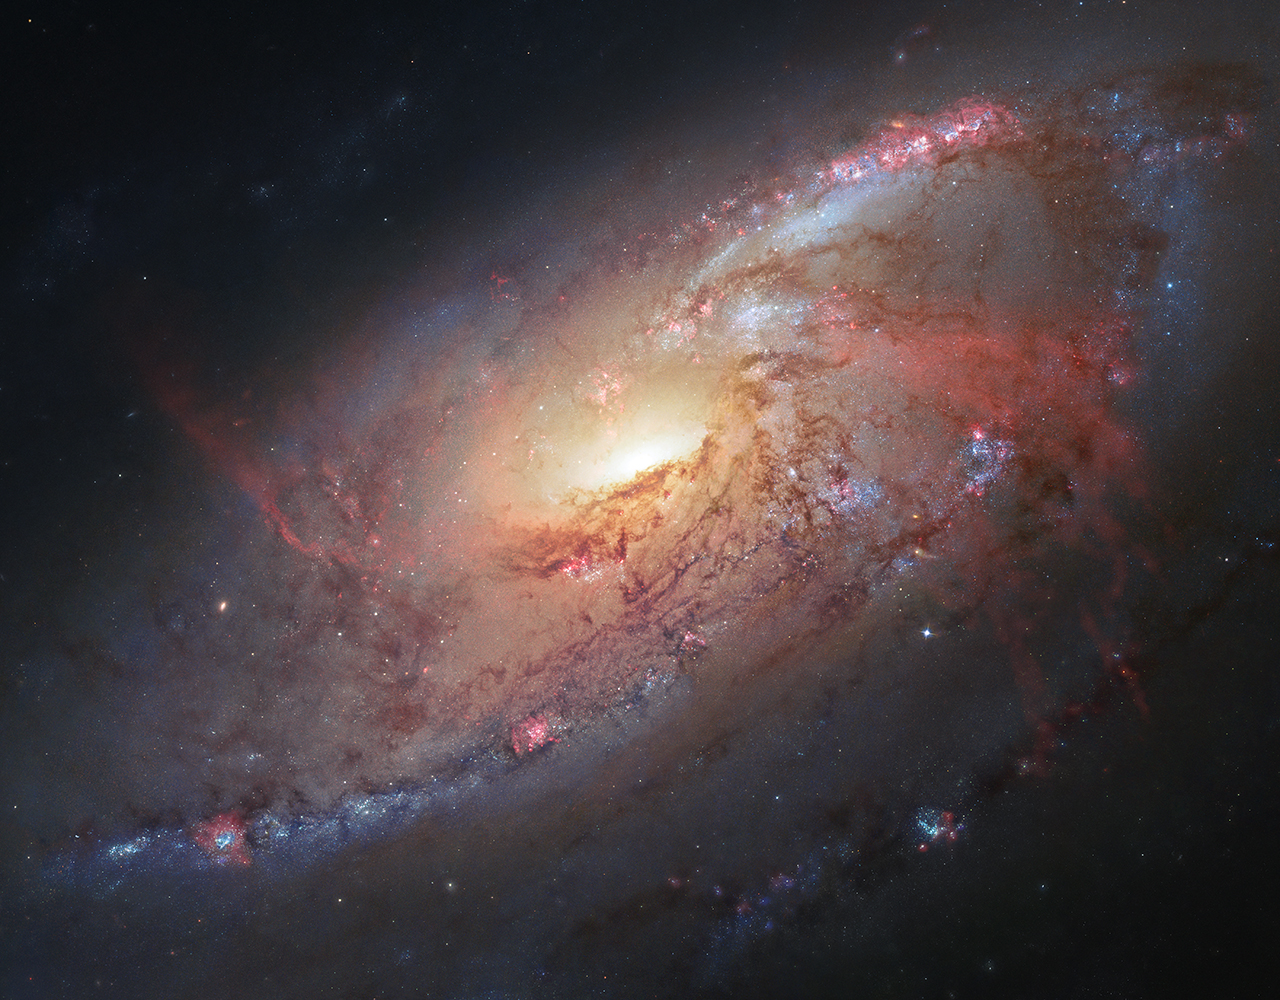
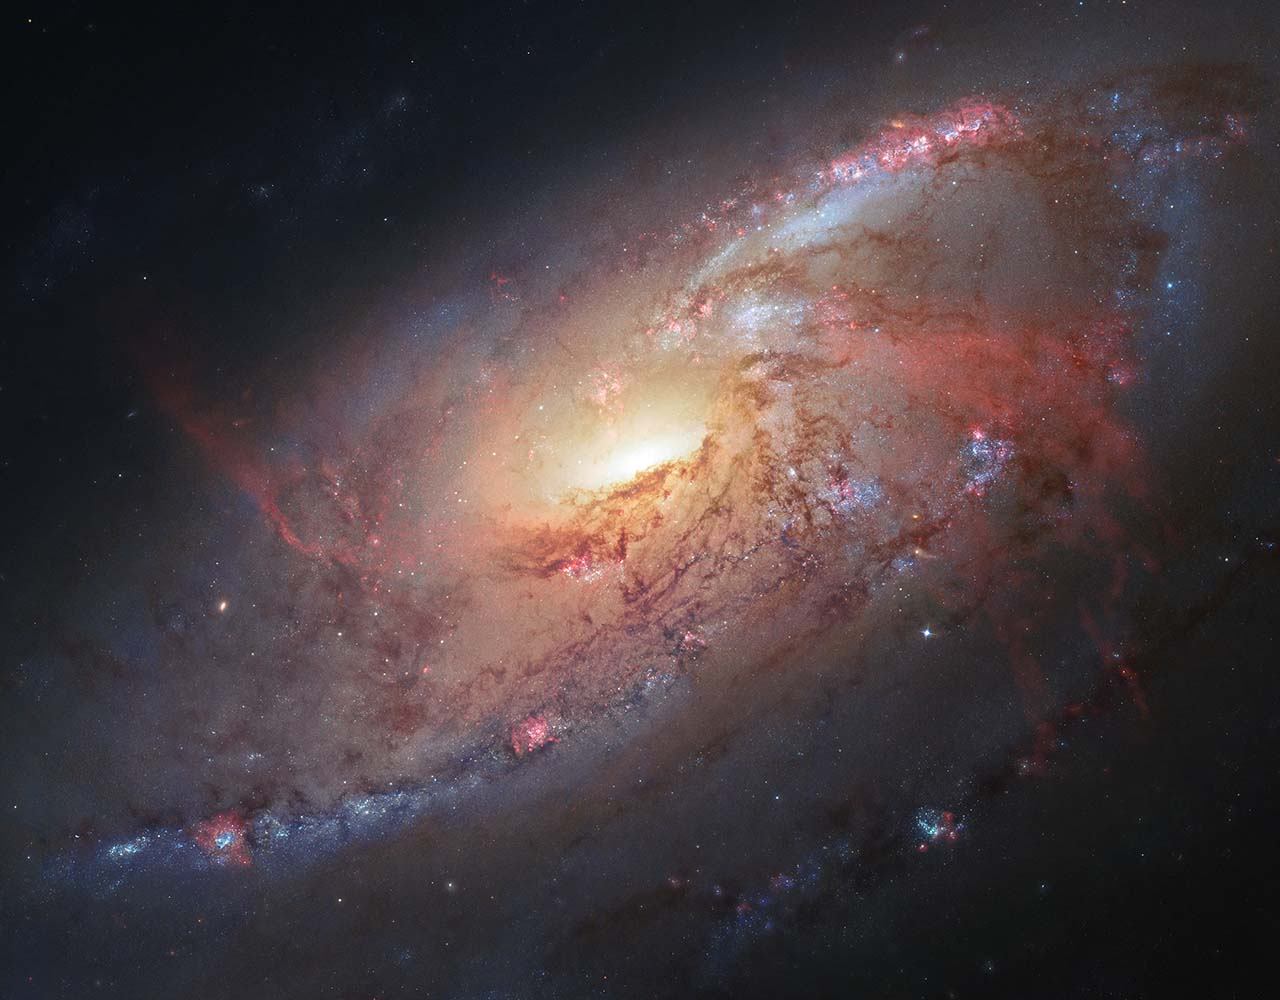
Background image size reduced

diff --git a/index.html b/index.html
@@ -6,8 +6,6 @@
     <meta name="viewport" content="width=device-width, initial-scale=1.0">
     <meta name="description" content="">
     <meta name="author" content="Marco Vidal García">
-    
-    <link rel="apple-touch-icon" href="apple-touch-icon.png">
 
     <title>Marco Vidal García</title>
 

diff --git a/assets/css/main.css b/assets/css/main.css
@@ -120,9 +120,12 @@ a:focus {
 
 /*** Mobile ***/
 
-@media only screen and (min-device-width : 200px) and (max-device-width : 775px) {
+@media only screen and (min-device-width : 200px) and (max-device-width : 1150px) {
 	html, body {
 		height: 100%;
+	}
+	body {
+		margin: 1em;
 	}
 
 	.main {
